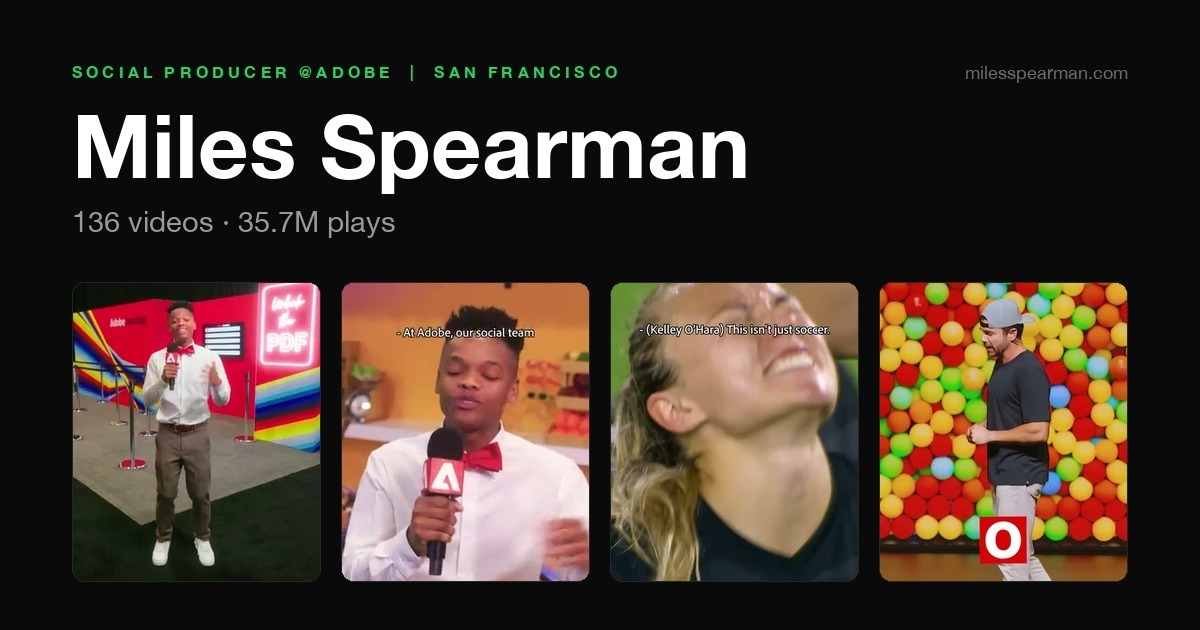
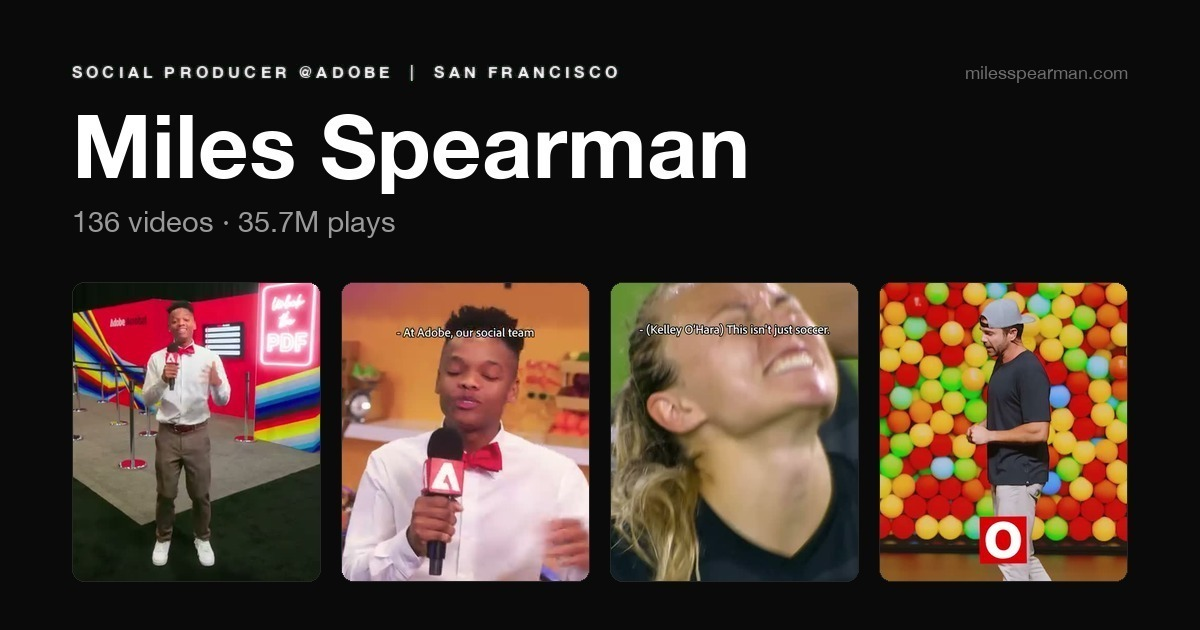
Fix pass from the five checks (Oct 6)
- Trace Erase: the published IG caption sat in REEL_TAGS, where the tag row under it (duplicate key) erased it, so the #1 video showed no description anywhere. Moved verbatim into REEL_DESCS; duplicate-key warnings 1 -> 0.
- '26 Summit Behind the Scenes of Sneaks: plays '' -> '152' (YouTube viewCount). N/A is only for LinkedIn and IG carousels.
- Share card eyebrow green -> white (pixel remap, glyph shapes untouched), matching the Sep 4 green sweep.
- Timeline sticky year bar solid to 94% so cards don't show through.
- Phones: playlist sidebar category label wraps (first playlist stays visible at 375); timeline chip tracking 1.5px at <=400px so In-House Productions fits one line.

Changed region(s): [[0.0617, 0.0905, 0.5242, 0.1508]]

diff --git a/src/Portfolio.jsx b/src/Portfolio.jsx
@@ -308,7 +308,6 @@ const REEL_TAGS = {
   "’25 MAX: “Coolest Job” @Adobe | Firefly Feature": "D, P, H",
   "’25 MAX: Mark Rober’s Creator Assignment": "D, P, H",
   "’25 MAX: Jessica Williams’ Creator Assignment": "D, P, H",
-  "’25 MAX: Project Trace Erase: Adobe Researcher Sneaks Interview": "In this video, Research Scientist Lingzhi Zhang takes you behind the scenes of the demo. His team is exploring powerful new ways to remove objects and reflections in a single click while keeping important details intact. The crowd's reaction says everything.",
   "’25 MAX: Navin’s Coolest Job": "D, P, H",
   "’25 MAX: Sarah Shen’s Coolest Job": "D, P, H",
   "’25 MAX: Project Trace Erase: Adobe Researcher Sneaks Interview": "D, P, H",
@@ -869,7 +868,8 @@ const portfolio = [
       { title: "Brand Intelligence B2B Interview", sub: "@adobe · 277 likes · May 18, 2026", plays: "19.4K", mp4: "~/Downloads/Claude/miles-portfolio-reels/2026/Evergreen-Producing/B2B-Interview-Brand-Intelligence_5.18.26.mp4", postUrl: "https://www.instagram.com/p/DYfgGfajprE/" },
       { title: "Coolest Job: Tongyu", sub: "@adobe · 230 likes · May 15, 2026", plays: "18.1K", mp4: "~/Downloads/Claude/miles-portfolio-reels/2026/Evergreen-Producing/Tongyu-Coolest-Job_5.15.26.mp4", postUrl: "https://www.instagram.com/p/DYX7HIrkqyB/" },
       { title: "Coolest Job: Eric", sub: "@adobe · 254 likes · May 14, 2026", plays: "17.4K", mp4: "~/Downloads/Claude/miles-portfolio-reels/2026/Evergreen-Producing/Eric-Coolest-Job_5.14.26.mp4", postUrl: "https://www.instagram.com/p/DYU72ovgswY/" },
-      { title: "’26 Summit: Behind the Scenes of Sneaks", sub: "YouTube · May 29, 2026", plays: "", role: "Produced & Coached", landscape: true, mp4: "/reels/2026/Summit-2026/BTS-Sneaks-2026.mp4", postUrl: "https://youtu.be/WIrwwJNthxc" },
+      // Oct 6 2026: plays read from the YouTube watch page (viewCount 152). It was blank ("N/A") after the Oct 1 switch from LinkedIn to YouTube, and N/A is only for LinkedIn and IG carousels.
+      { title: "’26 Summit: Behind the Scenes of Sneaks", sub: "YouTube · May 29, 2026", plays: "152", role: "Produced & Coached", landscape: true, mp4: "/reels/2026/Summit-2026/BTS-Sneaks-2026.mp4", postUrl: "https://youtu.be/WIrwwJNthxc" },
       { title: "’26 Summit: Words of Wisdom with Iliza Shlesinger", sub: "YouTube · Apr 30, 2026", plays: "766", role: "Produced & Coached", landscape: true, mp4: "/reels/2026/Summit-2026/Words-of-Wisdom-Iliza.mp4", postUrl: "https://youtu.be/Yppr9COGl0o" },
       { title: "’26 Summit: Anil Chakravarthy Exec Interview", sub: "LinkedIn · Apr 17, 2026", plays: "", role: "Produced, creatively directed & coached", mp4: "/reels/2026/Summit-2026/Anil-Chakravarthy-Pre-Summit.mp4", postUrl: "https://www.linkedin.com/posts/adobe_adobe-summit-anil-chakravarthy-ugcPost-7451028793734926336-5JmJ" },
     ],
@@ -1441,6 +1441,8 @@ const caseFromHash = () => { const m = window.location.hash.match(/^#\/case\/(.+
 // caption lines (verbatim, emoji/CTA trimmed) or Miles's own words; more land
 // with the Workfront ingest. A reel with no entry shows none. NEVER invent one.
 const REEL_DESCS = {
+  // Oct 6 2026: the Oct 1 commit (399dc58) put this caption in REEL_TAGS, where the tag row below it overwrote it. Moved here, verbatim.
+  "’25 MAX: Project Trace Erase: Adobe Researcher Sneaks Interview": "In this video, Research Scientist Lingzhi Zhang takes you behind the scenes of the demo. His team is exploring powerful new ways to remove objects and reflections in a single click while keeping important details intact. The crowd's reaction says everything.",
   "Adobe x NWSL: 2025 Creator Club": "Say hello to the 2025 Creator Club, brought to you by Adobe and the NWSL. A love letter to the fans who bring the game to life, with Adobe Express templates to rep your team your way.",
   "Adobe x Golden State Warriors: Creative Threads": "At the Adobe x Warriors Creative Threads workshops, emerging Bay Area artists design sneakers that speak louder than words, facilitated by The Campus Worldwide.",
   "Photoshop x Marvel: Eyes of Wakanda": "How the team behind Marvel Animation's Eyes of Wakanda illustrated the series, and how custom brushes in Photoshop helped bring it to life.",
@@ -3161,7 +3163,7 @@ function CareerTimeline() {
           return (
             <Fragment key={ev.idx}>
               {showYear && (
-                <div className="tl-year" style={{ position: "sticky", top: 76, zIndex: 3, padding: "16px 0 8px", background: `linear-gradient(180deg, ${C.bg} 0%, ${C.bg} 82%, transparent)` }}>
+                <div className="tl-year" style={{ position: "sticky", top: 76, zIndex: 3, padding: "16px 0 8px", background: `linear-gradient(180deg, ${C.bg} 0%, ${C.bg} 94%, transparent)` }}>
                   <span style={{ fontFamily: F, fontSize: "clamp(40px, 8vw, 84px)", fontWeight: 800, color: C.red, letterSpacing: -3, lineHeight: 0.9, display: "block" }}>{yr}</span>
                   <span style={{ fontFamily: F, fontSize: 10.5, color: "rgba(255,255,255,0.55)", letterSpacing: 1, textTransform: "uppercase" }}>{meta.count} {meta.count === 1 ? "project" : "projects"} · {meta.reels} {meta.reels === 1 ? "video" : "videos"} · {fmtPlays(meta.plays)} plays</span>
                 </div>
@@ -3198,7 +3200,7 @@ function CareerTimeline() {
                     )}
                   </span>
                   <span style={{ minWidth: 0 }}>
-                    <span style={{ display: "block", fontFamily: F, fontSize: 10, fontWeight: 700, color: cat.accent, letterSpacing: 2, textTransform: "uppercase", marginBottom: 4 }}>{cat.chip}</span>
+                    <span className="tl-cat" style={{ display: "block", fontFamily: F, fontSize: 10, fontWeight: 700, color: cat.accent, letterSpacing: 2, textTransform: "uppercase", marginBottom: 4 }}>{cat.chip}</span>
                     <span style={{ display: "block", fontFamily: F, fontSize: "clamp(18px, 2.4vw, 26px)", fontWeight: 800, color: C.white, letterSpacing: -0.4, lineHeight: 1.12 }}>{ev.event}</span>
                     {ev.role && <span style={{ display: "block", fontFamily: F, fontSize: 12.5, color: "rgba(255,255,255,0.72)", marginTop: 4, lineHeight: 1.4 }}>{ev.role}</span>}
                     {EVENT_BRANDS[ev.event] && <span className="tl-brands" style={{ display: "block", fontFamily: F, fontSize: 11.5, color: C.gray, marginTop: 5, whiteSpace: "nowrap", overflow: "hidden", textOverflow: "ellipsis" }}>{EVENT_BRANDS[ev.event]}</span>}
@@ -4155,6 +4157,8 @@ export default function Portfolio() {
           /* Horizontal strip: a bare word floats. The rule anchors it to the
              group of chips that follows it. */
           .sp-side-divider > span:first-child { border-left: 2px solid rgba(255,255,255,0.55); padding-left: 8px; font-size: 11px !important; }
+          /* Oct 6 2026 (mobile check): the category names are longer now ("Commercial Event Coverage"); let the label wrap so the first playlist still shows. */
+          .sp-side-divider > span:first-child { white-space: normal !important; max-width: 150px; line-height: 1.25; letter-spacing: 1.5px !important; }
           .spec-row-expand { padding: 10px 8px 18px 26px !important; }
           .tc-chips { margin-left: 0 !important; }
           .tc-chips button { min-height: 44px !important; padding: 8px 12px !important; font-size: 12px !important; }
@@ -4171,6 +4175,8 @@ export default function Portfolio() {
            Phone only: role chips ride ONE swipeable line (they wrapped into a
            two-line pill cloud), and the dead gaps around the fun row, the
            client strip, the CTA and the footer come down. Desktop untouched. */
+        /* Oct 6 2026 (mobile check): at 375 "IN-HOUSE PRODUCTIONS" fits one line on timeline cards with 1.5px tracking. */
+        @media (max-width: 400px) { .tl-cat { letter-spacing: 1.5px !important; } }
         @media (max-width: 640px) {
           .set-grid { grid-template-columns: 1fr; row-gap: 28px; }
           .set-grid.by-role { grid-template-columns: 1fr; }
